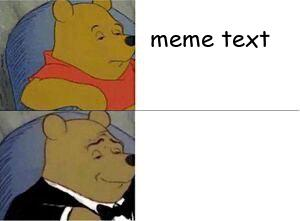
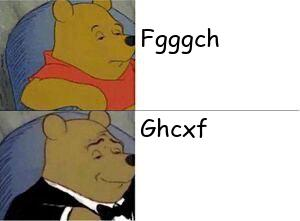
send mem

Changed region(s): [[0.45, 0.1086, 0.9, 0.2443], [0.45, 0.5158, 0.69, 0.6244]]

diff --git a/main.py b/main.py
@@ -1,6 +1,8 @@
 import logging
 from telegram.ext import Application, MessageHandler, filters
 from telegram.ext import CommandHandler
+import telegram
+from text_to_image import CreateMem
 
 logging.basicConfig(
     format='%(asctime)s - %(name)s - %(levelname)s - %(message)s', level=logging.DEBUG
@@ -11,6 +13,12 @@ logger = logging.getLogger(__name__)
 
 async def send_text(update, context):
     chat_id = update.message.chat_id
+    text = update.message.text.split('\n')
+    number, text1, text2 = text[0], text[1], text[2]
+    if number.isdigit():
+        photo_file = CreateMem(int(number), text1, text2).text()
+        with open(photo_file, 'rb'):
+            await context.bot.send_photo(chat_id=chat_id, photo=photo_file)
 
 
 
@@ -23,15 +31,12 @@ async def start(update, context):
     await update.message.reply_html(
         rf"Привет, {user.mention_html()}! Я помогу тебе сделать твой собственный мем. Сначала выбери шаблон!",
     )
-    with open('images/mem_1.jpg', 'rb') as photo_file:
-        await context.bot.send_photo(chat_id=chat_id, photo=photo_file)
-        await update.message.reply_text("1")
-    with open('images/mem_2.jpg', 'rb') as photo_file:
-        await context.bot.send_photo(chat_id=chat_id, photo=photo_file)
-        await update.message.reply_text("2")
-    with open('images/meme.jpg', 'rb') as photo_file:
-        await context.bot.send_photo(chat_id=chat_id, photo=photo_file)
-        await update.message.reply_text("3")
+    photo_files = [open('images/mem1.jpg', 'rb'), open('images/mem2.jpg', 'rb')]
+
+    media = [telegram.InputMediaPhoto(photo_file) for photo_file in photo_files]
+
+    await context.bot.send_media_group(chat_id=chat_id, media=media)
+
 
 
 async def help_command(update, context):

diff --git a/text_to_image.py b/text_to_image.py
@@ -1,16 +1,29 @@
 from PIL import Image, ImageDraw, ImageFont
+import sqlite3
+from pathlib import Path
 
-image = Image.open("images/meme.jpg")
 
-draw = ImageDraw.Draw(image)
 
-text = "meme text"
+class CreateMem():
+    def __init__(self, number, text1, text2):
+        self.number = number
+        self.text1 = text1
+        self.text2 = text2
+        self.con = sqlite3.connect("data/meme.db")
+        self.cur = self.con.cursor()
+        self.text()
 
-font = ImageFont.truetype("fonts/font.ttf", 24)
-
-x = 150
-y = 20
-
-draw.text((x, y), text, font=font, fill="black")
-
-image.save("images/output.jpg")
+    def text(self):
+        img = self.cur.execute(f"SELECT name from coordinates where id = {self.number}").fetchall()[0][0]
+        image = Image.open(f"images/{img}")
+        draw = ImageDraw.Draw(image)
+        font = ImageFont.truetype("fonts/font.ttf", 24)
+        x1 = self.cur.execute(f"SELECT x1 from coordinates where id = {self.number}").fetchall()[0][0]
+        y1 = self.cur.execute(f"SELECT y1 from coordinates where id = {self.number}").fetchall()[0][0]
+        x2 = self.cur.execute(f"SELECT x2 from coordinates where id = {self.number}").fetchall()[0][0]
+        y2 = self.cur.execute(f"SELECT y2 from coordinates where id = {self.number}").fetchall()[0][0]
+        draw.text((x1, y1), self.text1, font=font, fill="black")
+        draw.text((x2, y2), self.text2, font=font, fill="black")
+        name = "images/output.jpg"
+        image.save(name)
+        return name

diff --git a/test.py b/test.py
@@ -12,7 +12,7 @@ logger = logging.getLogger(__name__)
 
 async def echo(update, context):
     chat_id = update.message.chat_id
-    with open('images/meme.jpg', 'rb') as photo_file:
+    with open('images/mem1.jpg', 'rb') as photo_file:
         await context.bot.send_photo(chat_id=chat_id, photo=photo_file)
     with open('images/mem_1.jpg', 'rb') as photo_file:
         await context.bot.send_photo(chat_id=chat_id, photo=photo_file)
